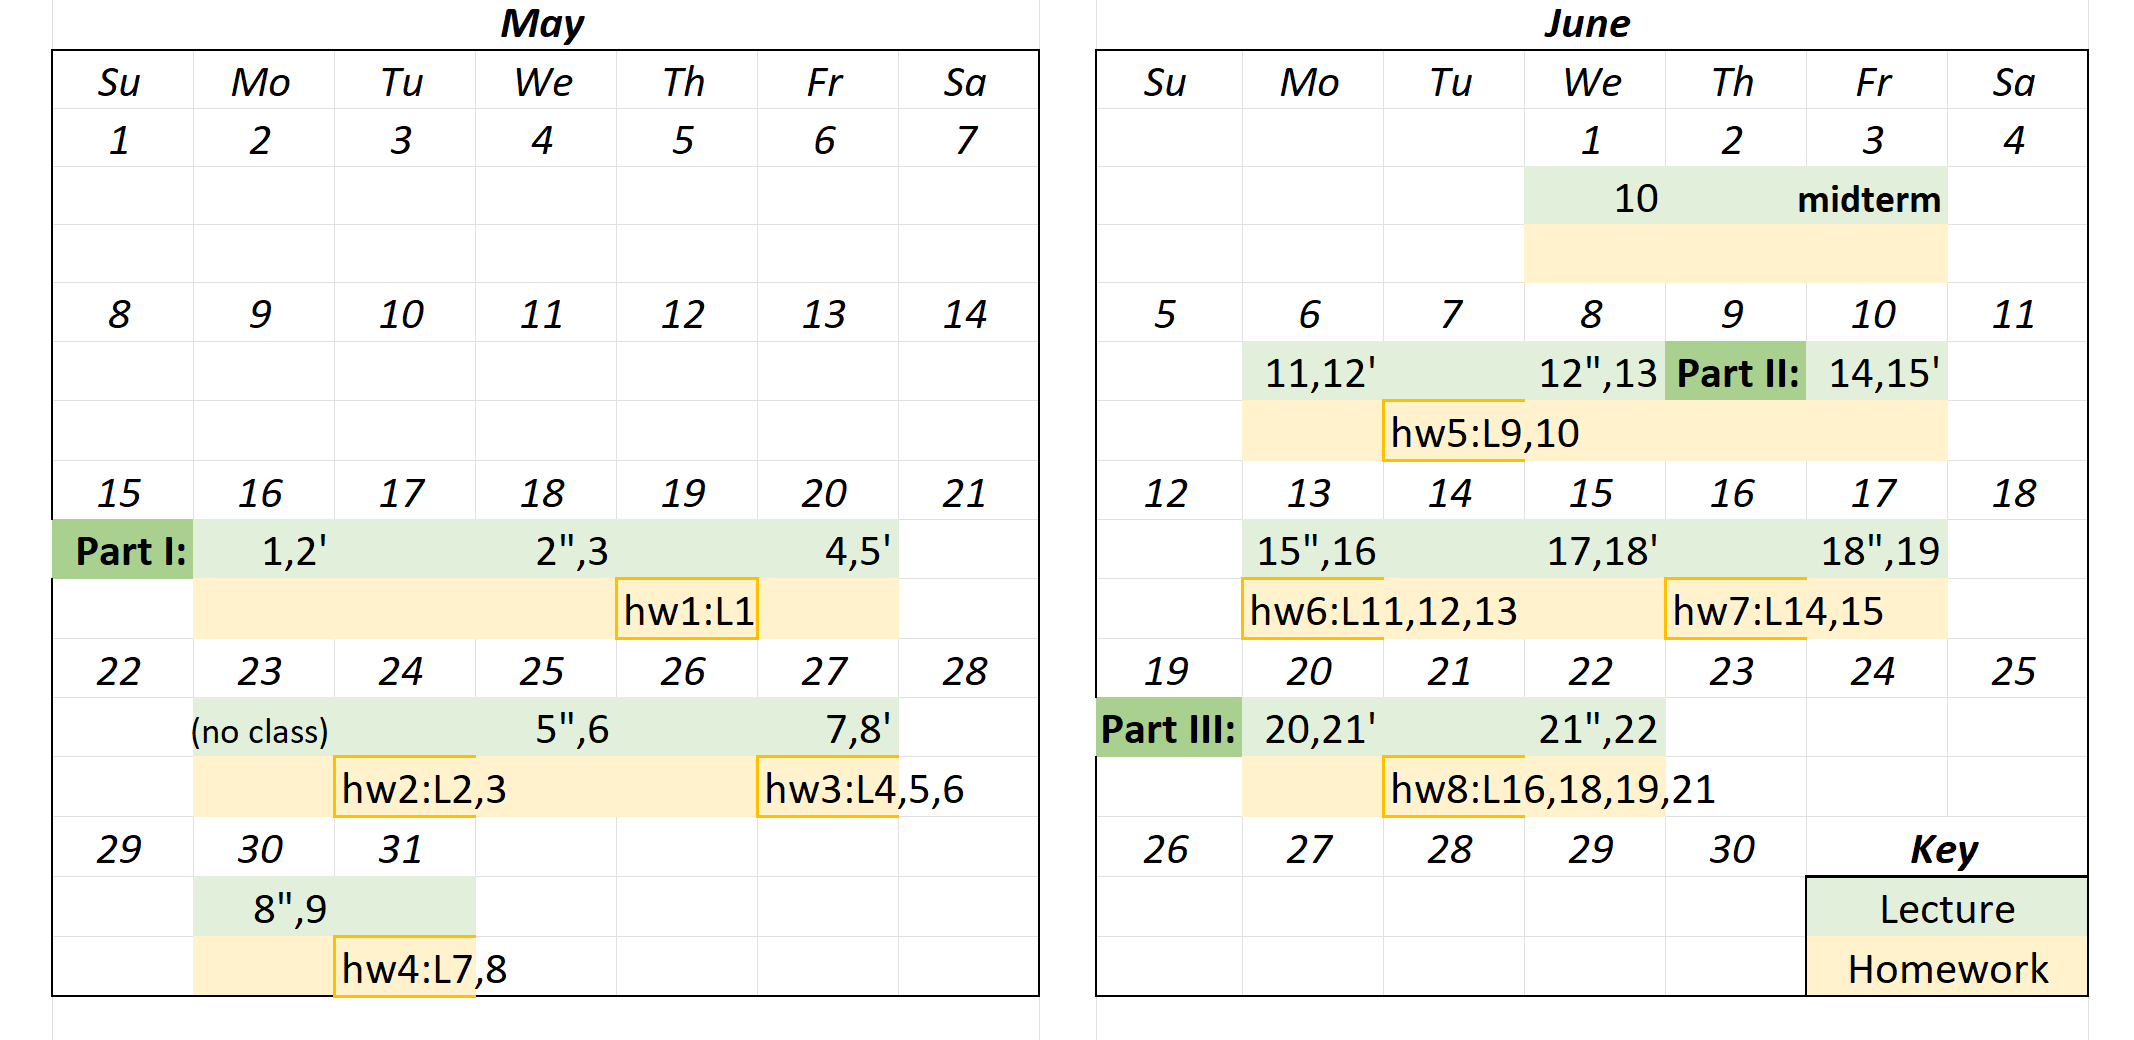
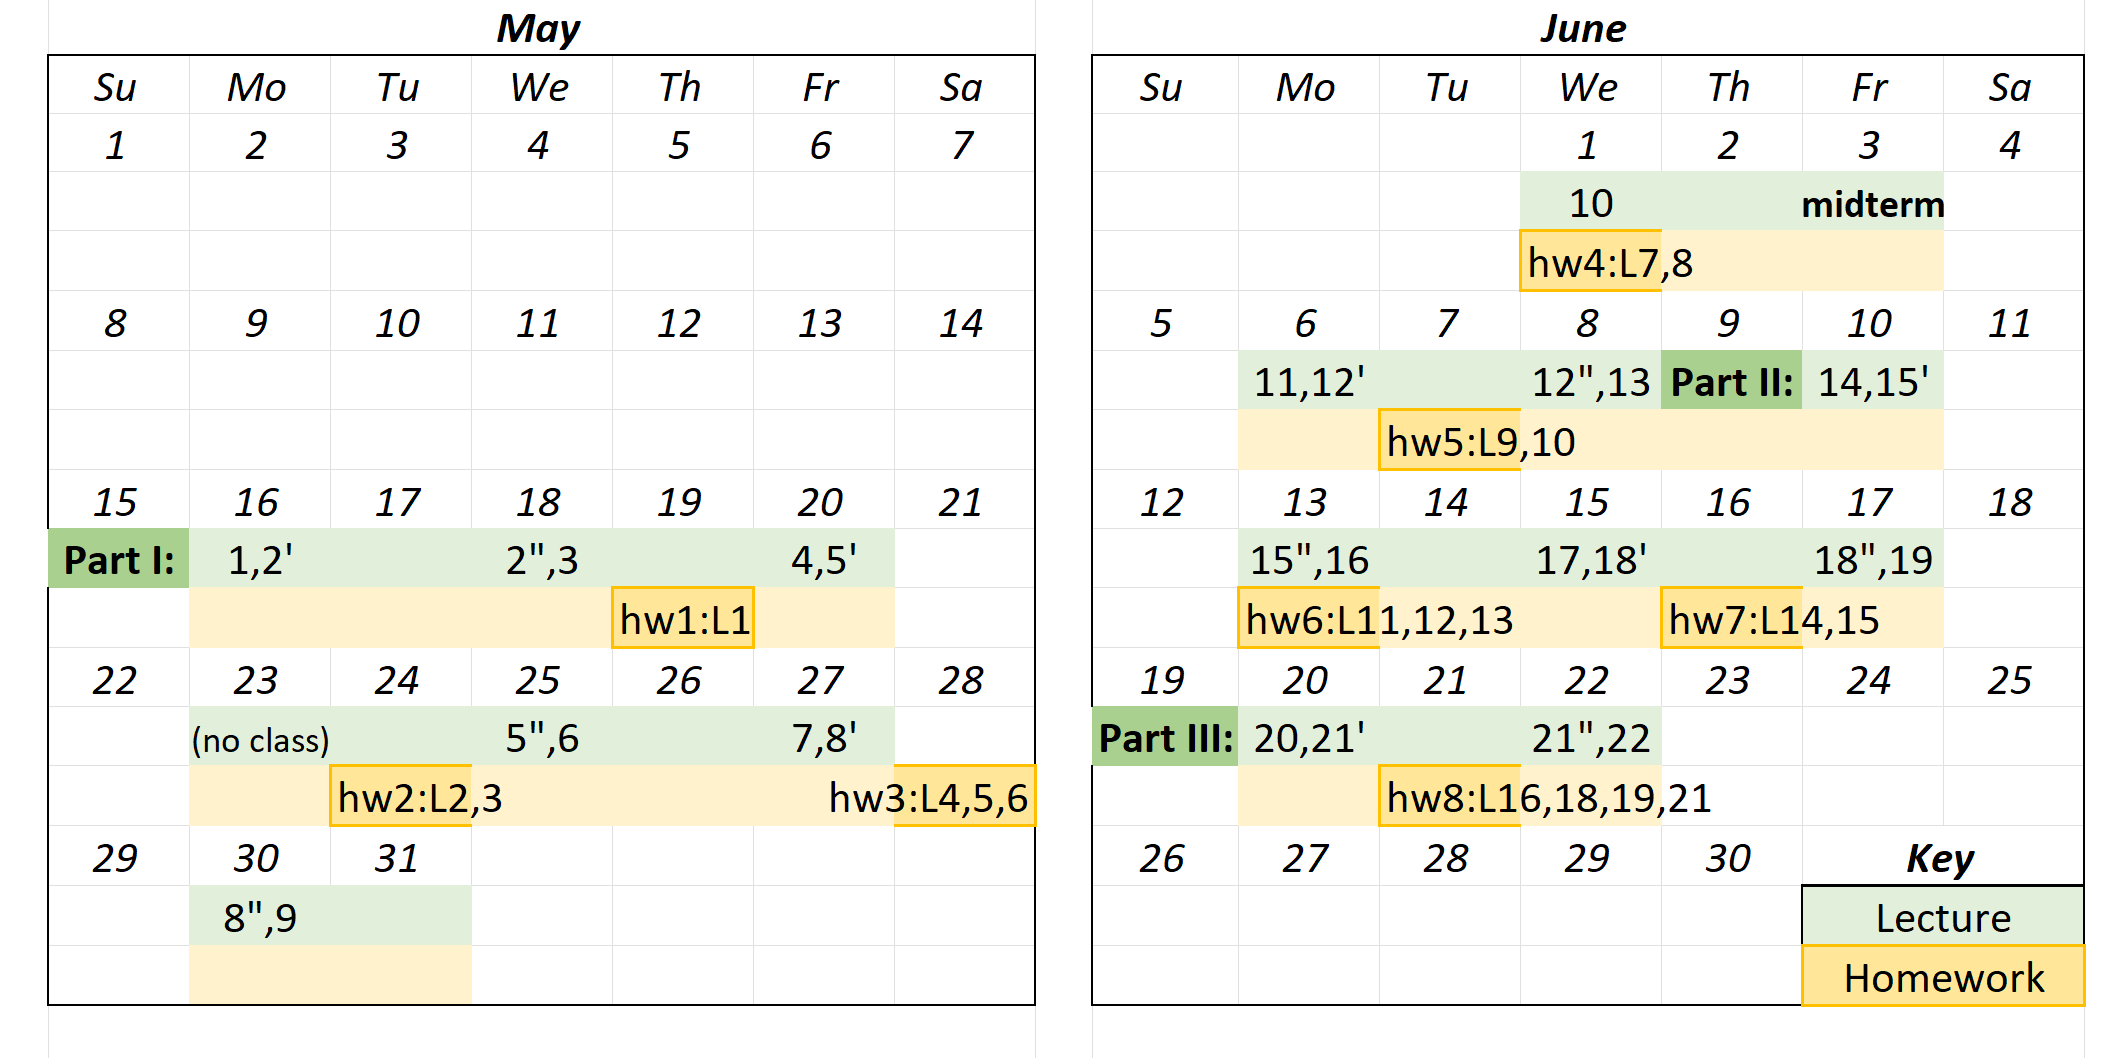
Update hw3 and hw4 deadlines
For more information see the Piazza post @92:
https://piazza.com/class/l2wy4l83juo5jo?cid=92

diff --git a/README.md b/README.md
@@ -7,12 +7,17 @@ This is the course homepage for CPSC 330: Applied Machine Learning at the Univer
 
 #### Instructor
 Mehrdad Oveisi
-- email: mehrdad.oveisi@ubc.ca
-- office: ICCS 255
+- ***email***: mehrdad.oveisi@ubc.ca
+- ***office***: ICCS 255
+- ***office hours***: one hour after each class
+
+| Day  | Time   | Location |
+|----------|--------|------|
+| Mon Wed Fri  | 12:00 - 13:00 | [FSC 1005](https://ssc.adm.ubc.ca/classroomservices/function/viewlocation?userEvent=ShowLocation&buildingID=FSC&roomID=1005) |
 
 #### Course Coordinator
 Riley Knowles
-- email cpsc330-admin@cs.ubc.ca
+- ***email***: cpsc330-admin@cs.ubc.ca
 
 For all emails about CFA accommodations, extensions or exemptions due to sickness or extenuating circumstances, please email Riley Knowles at the above email address.
 
@@ -48,8 +53,8 @@ Software licensed under [the MIT License](https://spdx.org/licenses/MIT.html), n
 | Syllabus quiz | May 23, 18:00  | [Canvas](https://canvas.ubc.ca/courses/97562) | [Canvas](https://canvas.ubc.ca/courses/97562) |
 | hw1 | May 19, 18:00 |  [Github repo](https://github.com/UBC-CS/cpsc330-2022s/tree/master/hw/) | [Gradescope](https://www.gradescope.ca/courses/5032)|
 | hw2 | May 24, 18:00 |   [Github repo](https://github.com/UBC-CS/cpsc330-2022s/tree/master/hw/) | [Gradescope](https://www.gradescope.ca/courses/5032)|
-| hw3 | May 27, 18:00 |   [Github repo](https://github.com/UBC-CS/cpsc330-2022s/tree/master/hw/) | [Gradescope](https://www.gradescope.ca/courses/5032)|
-| hw4 | May 31, 18:00  |   [Github repo](https://github.com/UBC-CS/cpsc330-2022s/tree/master/hw/) | [Gradescope](https://www.gradescope.ca/courses/5032)|
+| hw3 | May 28, 18:00 <br> ~May 27~ |   [Github repo](https://github.com/UBC-CS/cpsc330-2022s/tree/master/hw/) | [Gradescope](https://www.gradescope.ca/courses/5032)|
+| hw4 | June 01, 18:00 <br> ~May 31~  |   [Github repo](https://github.com/UBC-CS/cpsc330-2022s/tree/master/hw/) | [Gradescope](https://www.gradescope.ca/courses/5032)|
 | **Midterm** | June 03, during class time|[Canvas](https://canvas.ubc.ca/courses/97562) | [Canvas](https://canvas.ubc.ca/courses/97562) |
 | hw5 | June 07, 18:00 |   [Github repo](https://github.com/UBC-CS/cpsc330-2022s/tree/master/hw/) | [Gradescope](https://www.gradescope.ca/courses/5032)|
 | hw6 | June 13, 18:00 |   [Github repo](https://github.com/UBC-CS/cpsc330-2022s/tree/master/hw/) | [Gradescope](https://www.gradescope.ca/courses/5032)|
